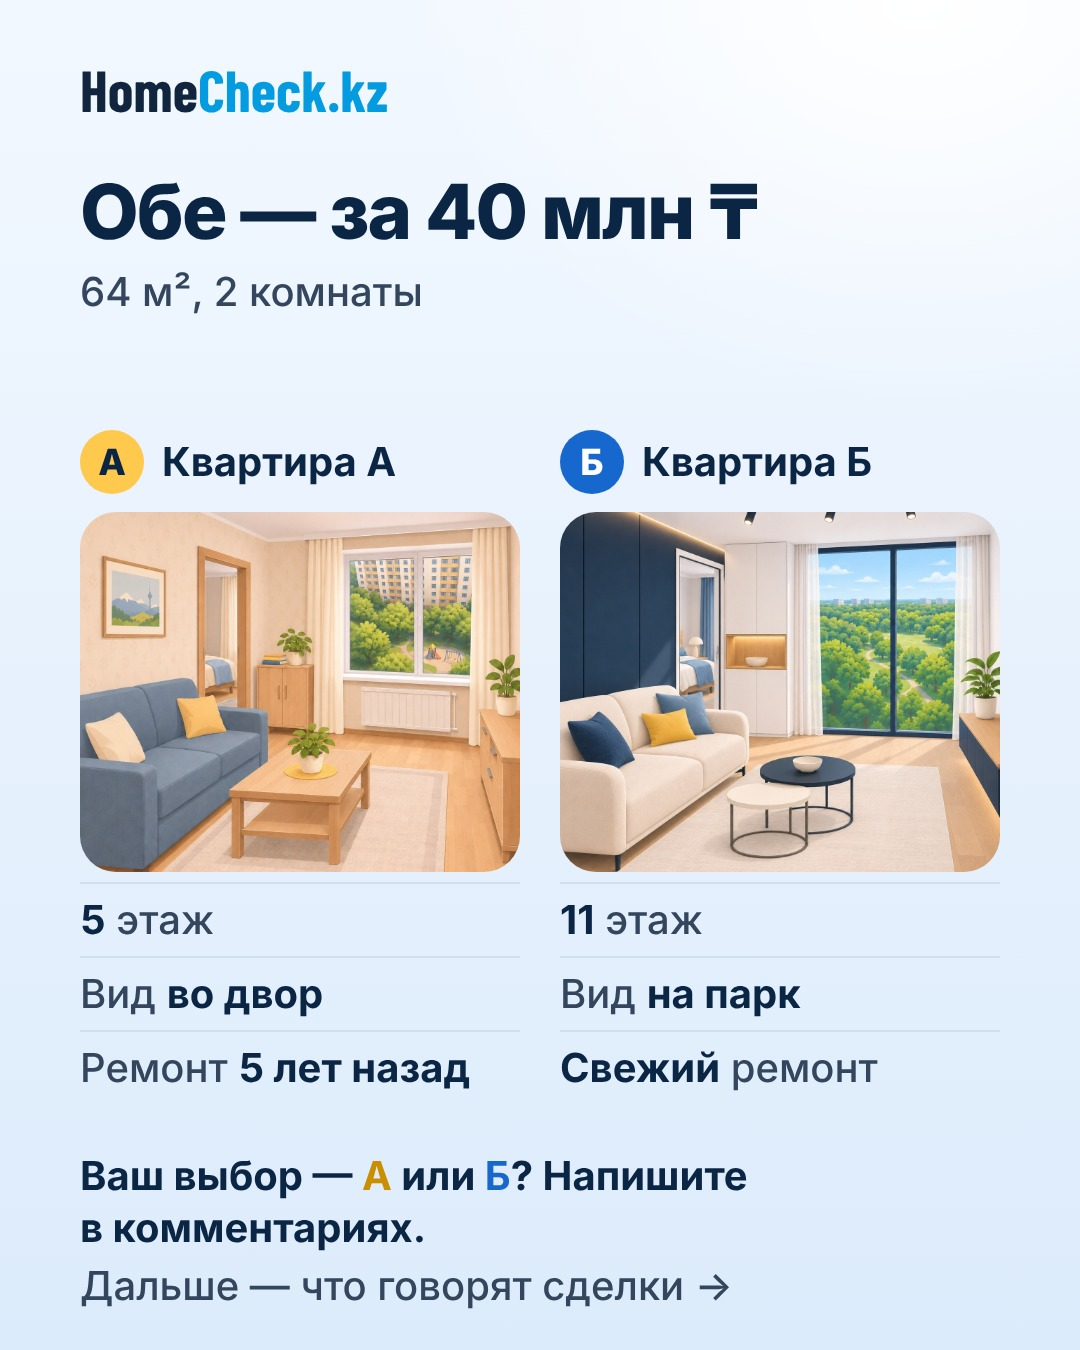
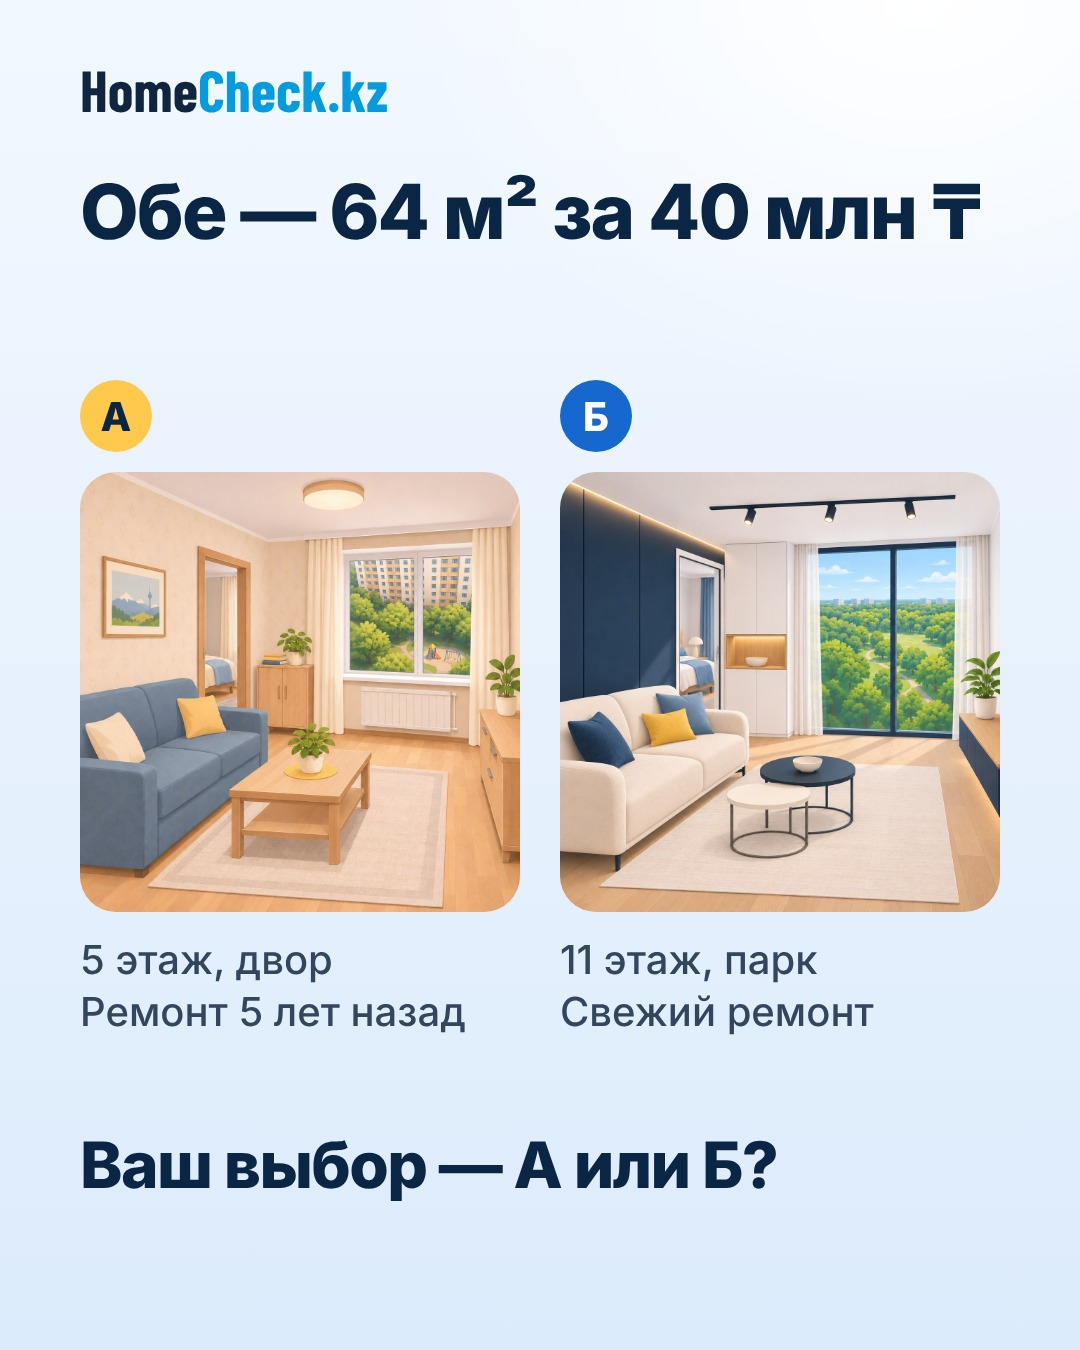
Две квартиры: без «Листайте», слайд 2 упрощён до одного стиля текста
Claude-Session: https://claude.ai/code/session_01YPTRhbcfXRBnSeVtmn8ipe

diff --git a/posts/2026-11-23-dve-kvartiry/build.py b/posts/2026-11-23-dve-kvartiry/build.py
@@ -47,25 +47,22 @@ def badge(k, size=84, fs=48):
 
 # 1 — обложка: картинка на весь слайд, текст в небе, метки А и Б на домах
 S1 = page(f'<img src="{IMG["houses"]}" style="position:absolute;inset:0;width:1080px;height:1350px;object-fit:cover">'
-          f'<div class="col" style="top:170px"><h1 class="t">Две похожие квартиры. Какую выберете?</h1>'
-          f'<p class="p b" style="margin-top:22px">Листайте →</p></div>'
+          f'<div class="col" style="top:170px"><h1 class="t">Две похожие квартиры. Какую выберете?</h1></div>'
           f'<div style="position:absolute;left:150px;top:520px;z-index:4">{badge("А", 100, 56)}</div>'
           f'<div style="position:absolute;left:840px;top:520px;z-index:4">{badge("Б", 100, 56)}</div>')
 
-# 2 — две квартиры рядом
-def flat(k, img, rows):
-    r = ''.join(f'<p class="p" style="padding:10px 0;border-top:2px solid rgba(11,37,69,.08)">{x}</p>' for x in rows)
-    return (f'<div style="width:440px"><div style="display:flex;align-items:center;gap:18px;margin-bottom:18px">{badge(k, 64, 36)}<span class="p b">Квартира {k}</span></div>'
-            f'<div class="card" style="height:360px"><img src="{IMG[img]}" style="width:100%;height:100%;object-fit:cover"></div><div style="margin-top:10px">{r}</div></div>')
+# 2 — две квартиры рядом: минимум текста, один стиль
+def flat(k, img, text):
+    return (f'<div style="width:440px"><div style="margin-bottom:20px">{badge(k, 72, 40)}</div>'
+            f'<div class="card" style="height:440px"><img src="{IMG[img]}" style="width:100%;height:100%;object-fit:cover"></div>'
+            f'<p class="p" style="margin-top:22px">{text}</p></div>')
 
-S2 = page(f'<div class="col" style="top:170px"><h2 class="t">Обе — за&nbsp;40&nbsp;млн&nbsp;₸</h2>'
-          f'<p class="p" style="margin-top:14px">64&nbsp;м², 2&nbsp;комнаты</p></div>'
-          f'<div class="col" style="top:430px;display:flex;justify-content:space-between">'
-          + flat('А', 'flat_a', ['<b class=b>5</b> этаж', 'Вид <b class=b>во двор</b>', 'Ремонт <b class=b>5&nbsp;лет назад</b>'])
-          + flat('Б', 'flat_b', ['<b class=b>11</b> этаж', 'Вид <b class=b>на парк</b>', '<b class=b>Свежий</b> ремонт'])
+S2 = page(f'<div class="col" style="top:170px"><h2 class="t">Обе — 64&nbsp;м² за&nbsp;40&nbsp;млн&nbsp;₸</h2></div>'
+          f'<div class="col" style="top:380px;display:flex;justify-content:space-between">'
+          + flat('А', 'flat_a', '5 этаж, двор<br>Ремонт 5&nbsp;лет назад')
+          + flat('Б', 'flat_b', '11 этаж, парк<br>Свежий ремонт')
           + '</div>'
-          + f'<div class="col" style="top:1150px"><p class="p b">Ваш выбор — <span style="color:#C98F00">А</span> или <span style="color:{BLUE}">Б</span>? Напишите в&nbsp;комментариях.</p>'
-            f'<p class="p" style="margin-top:6px">Дальше — что говорят сделки →</p></div>', ex=True)
+          + f'<div class="col" style="top:1130px"><h2 class="t" style="font-size:64px">Ваш выбор — А или Б?</h2></div>')
 
 # 3 — ваш выбор
 S3 = page(f'<div class="col" style="top:170px;display:flex;justify-content:space-between">'
